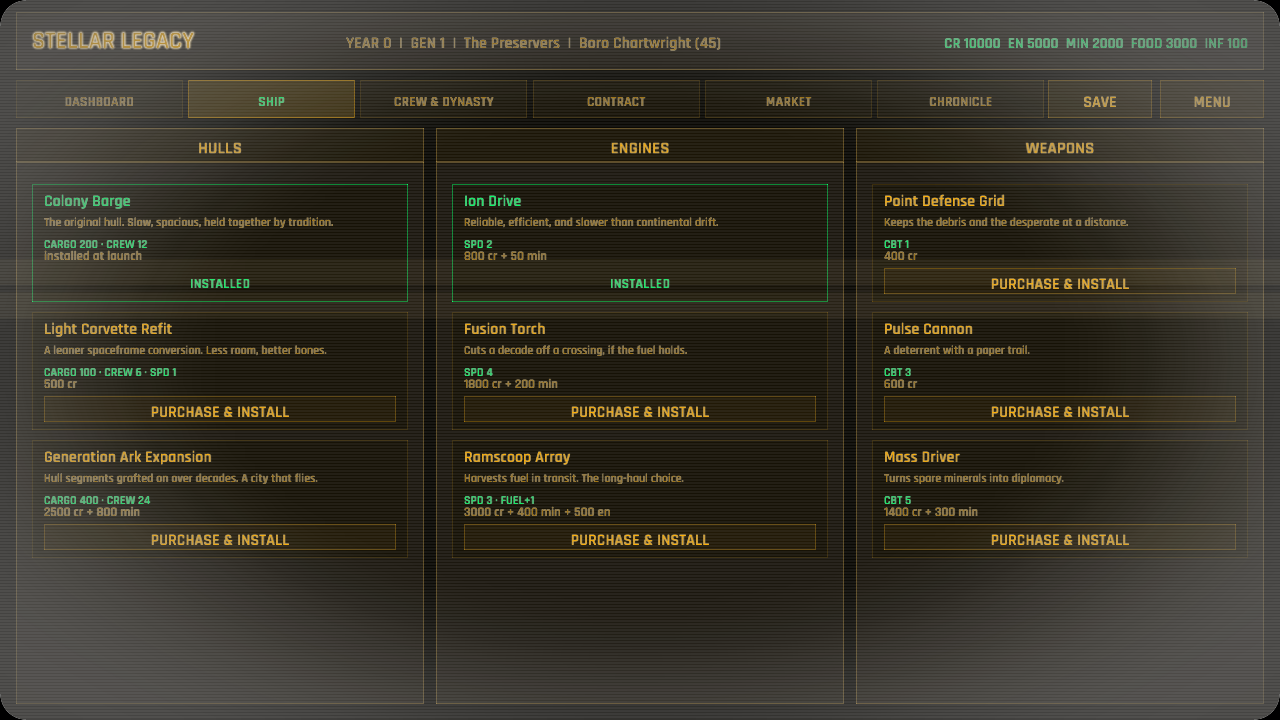
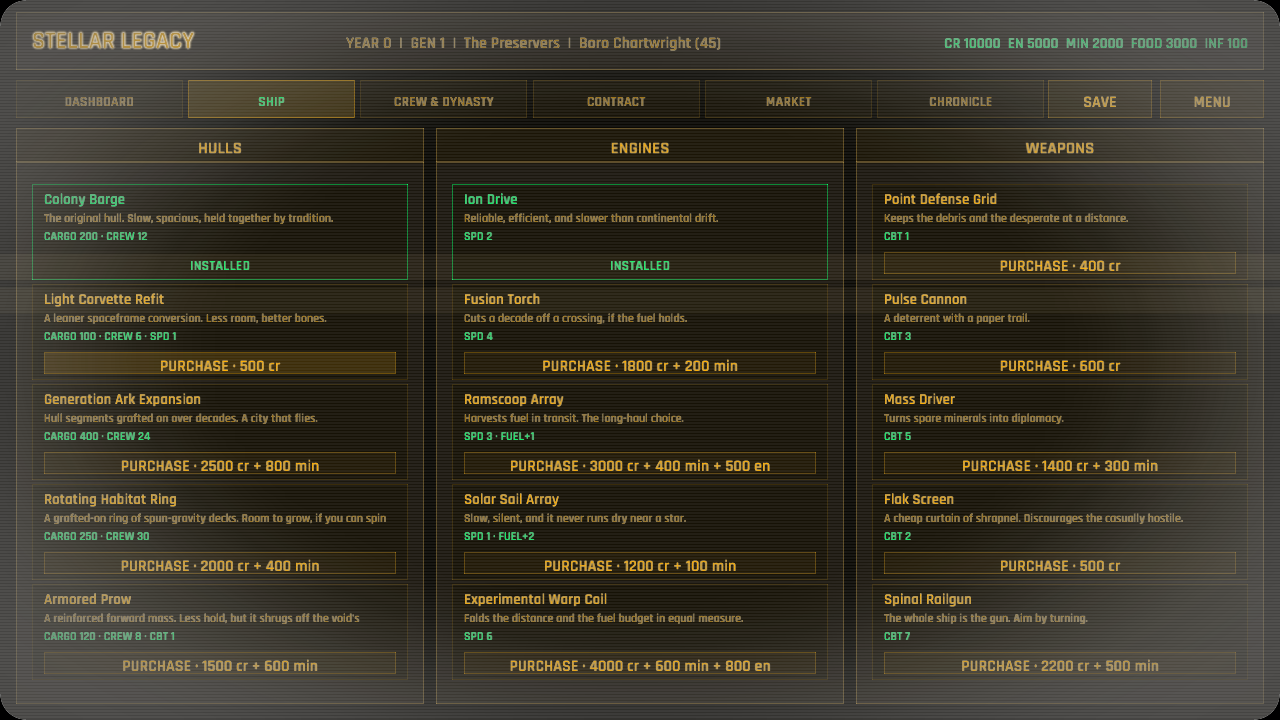
Reach 5/5/5 ship components; compact the builder card
Author two components per category in assets/ship_components.json
(habitat_ring/armored_prow hulls, solar_sail/warp_coil engines,
flak_screen/spinal_railgun weapons), each with real stat tradeoffs that
feed the item-3 hooks (production/contract/market/dilemma). Compact the
Ship Builder card to 96px and fold the cost into the PURCHASE button so a
five-deep catalog column fits without overflow. The data-load test now
asserts 5/5/5.

Verified: build, clippy -D warnings, fmt, 45 tests; ship capture shows
all five per column fitting cleanly. Updates PLAN item 8 (components
target complete).

diff --git a/src/ui/ship_builder.rs b/src/ui/ship_builder.rs
@@ -22,9 +22,9 @@ pub fn draw(ctx: &GameplayCtx<'_>, area: Rect, mouse: Vec2, actions: &mut Vec<Ui
 
         for component in ctx.data.ship_components.list(*kind) {
             let installed = is_installed(ctx, *kind, &component.id);
-            let card = Rect::new(content.x, y, content.w, 118.0);
+            let card = Rect::new(content.x, y, content.w, 96.0);
             draw_component_card(ctx, card, component, installed, mouse, *kind, actions);
-            y += 128.0;
+            y += 100.0;
         }
     }
 }
@@ -83,9 +83,9 @@ fn draw_component_card(
     draw_ui_text_ex(
         &component.name,
         rect.x + 12.0,
-        rect.y + 22.0,
+        rect.y + 20.0,
         TextStyle::new(
-            16.0,
+            15.0,
             if installed {
                 term::accent()
             } else {
@@ -97,10 +97,10 @@ fn draw_component_card(
     draw_text_block(
         &component.description,
         rect.x + 12.0,
-        rect.y + 30.0,
+        rect.y + 26.0,
         rect.w - 24.0,
-        28.0,
-        12.0,
+        24.0,
+        11.0,
         2.0,
         term::dim(),
     );
@@ -110,11 +110,13 @@ fn draw_component_card(
         draw_ui_text_ex(
             &stats,
             rect.x + 12.0,
-            rect.y + 64.0,
+            rect.y + 56.0,
             TextStyle::new(12.0, term::accent()).params(),
         );
     }
 
+    // Cost is folded into the button so the card stays compact enough for a
+    // five-deep catalog column.
     let cost = &component.cost;
     let mut cost_parts = Vec::new();
     if cost.credits != 0 {
@@ -126,19 +128,8 @@ fn draw_component_card(
     if cost.energy != 0 {
         cost_parts.push(format!("{} en", cost.energy));
     }
-    let cost_text = if cost_parts.is_empty() {
-        "installed at launch".to_owned()
-    } else {
-        cost_parts.join(" + ")
-    };
-    draw_ui_text_ex(
-        &cost_text,
-        rect.x + 12.0,
-        rect.y + 76.0,
-        TextStyle::new(13.0, term::dim()).params(),
-    );
 
-    let btn = Rect::new(rect.x + 12.0, rect.y + 84.0, rect.w - 24.0, 26.0);
+    let btn = Rect::new(rect.x + 12.0, rect.y + 68.0, rect.w - 24.0, 22.0);
     if installed {
         draw_text_centered_in_box_ex(
             "INSTALLED",
@@ -149,6 +140,11 @@ fn draw_component_card(
             TextStyle::new(14.0, term::accent()),
         );
     } else {
+        let label = if cost_parts.is_empty() {
+            "INSTALL (free)".to_owned()
+        } else {
+            format!("PURCHASE · {}", cost_parts.join(" + "))
+        };
         let negated = crate::data::ResourceDelta {
             credits: -cost.credits,
             energy: -cost.energy,
@@ -157,7 +153,7 @@ fn draw_component_card(
             influence: -cost.influence,
         };
         let affordable = ctx.sim.resources.can_afford(&negated);
-        if term_button(btn, "PURCHASE & INSTALL", affordable, mouse) {
+        if term_button(btn, &label, affordable, mouse) {
             actions.push(UiAction::PurchaseComponent(kind, component.id.clone()));
         }
     }

diff --git a/src/data.rs b/src/data.rs
@@ -229,7 +229,9 @@ mod tests {
         assert_eq!(data.legacies.len(), 3);
         assert!(data.events.len() >= 4);
         assert!(!data.contracts.is_empty());
-        assert_eq!(data.ship_components.hulls.len(), 3);
+        assert_eq!(data.ship_components.hulls.len(), 5);
+        assert_eq!(data.ship_components.engines.len(), 5);
+        assert_eq!(data.ship_components.weapons.len(), 5);
         assert_eq!(data.crew_archetypes.len(), 7);
         for legacy_id in ["preservers", "adaptors", "wanderers"] {
             assert!(data.legacies.contains(legacy_id));

diff --git a/PLAN.md b/PLAN.md
@@ -133,8 +133,13 @@ Ordered roughly by milestone (GDD §13):
 8. **Content targets from §8** (bulk-content pass, in progress): 30+ events
    (**20/30** so far, 5 per category — 2026-07-19 batch added `hull_fracture`,
    `contagion`, `birth_dearth`, `schooling_crisis`, `course_correction`,
-   `relay_contact`, `first_death_in_space`, `veterans_petition`), 5/5/5
-   components, 6-8 contracts (**4** so far), 6 dilemmas
+   `relay_contact`, `first_death_in_space`, `veterans_petition`), **5/5/5
+   components DONE (2026-07-19)** — added `habitat_ring`/`armored_prow` (hulls),
+   `solar_sail`/`warp_coil` (engines), `flak_screen`/`spinal_railgun` (weapons),
+   each with real stat tradeoffs that feed the item-3 hooks; the Ship Builder
+   card was compacted (96px, cost folded into the button) so a five-deep column
+   fits, and the data-load test asserts 5/5/5. 6-8 contracts (**4** so far),
+   6 dilemmas
    per legacy (**3/6 each DONE 2026-07-19** — added `drift_dialect`/
    `founders_chair` (Preservers), `cold_sleep`/`mirror_test` (Adaptors),
    `marked_port`/`debt_collector` (Wanderers); each engages its legacy's tracked